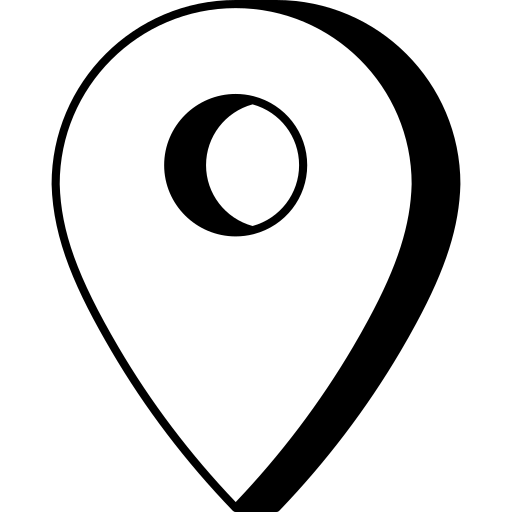
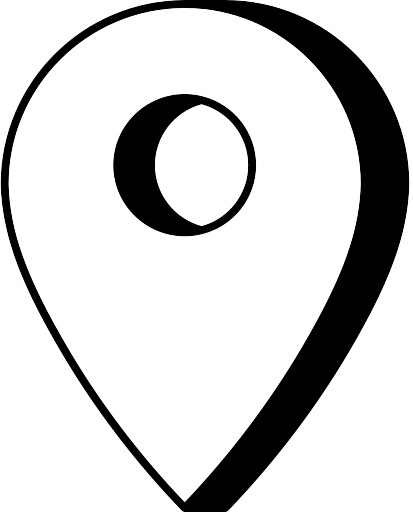
Feat: 마커에 마우스 올릴 시 소속대학 및 동아리명 뜨도록 구현

diff --git a/src/pages/orchestraClub/marker.js b/src/pages/orchestraClub/marker.js
@@ -1,47 +1,115 @@
+// // 마커 데이터 배열
+// const markers = [
+//     { top: 49, left: 38, url: "../orchestraClubPages/index.html" }, //서강대
+//     { top: 75, left: 37, url: "../orchestraClubPages/index.html" }, //서울대
+//     { top: 40, left: 60, url: "../orchestraClubPages/index.html" }, //경희대
+//     { top: 36, left: 48, url: "../orchestraClubPages/index.html" }, //성균관대
+//     { top: 46, left: 60, url: "../orchestraClubPages/index.html" }, //한양대
+// ];
+
+// // 지도 컨테이너 선택
+// const mapContainer = document.querySelector(".map");
+
+// function createMarker(top, left, url) {
+//     const marker = document.createElement("a");
+//     marker.className = "marker";
+//     marker.href = url;
+//     marker.title = "Orchestra Info";
+
+//     const markerImg = document.createElement("img");
+//     markerImg.src = "../../../public/images/map_marker.png";
+//     markerImg.alt = "Map Marker";
+
+//     // 이미지 크기 고정
+//     markerImg.style.width = "30px";
+//     markerImg.style.height = "30px";
+//     markerImg.style.objectFit = "contain"; // 이미지 왜곡 방지
+
+//     marker.appendChild(markerImg);
+
+//     marker.style.position = "absolute";
+//     marker.style.top = `${top}%`;
+//     marker.style.left = `${left}%`;
+
+//     marker.addEventListener("click", (event) => {
+//         event.preventDefault();
+//         console.log(`Navigating to: ${url}`);
+//         window.location.href = url;
+//     });
+
+//     return marker;
+// }
+
+
+// // 마커 추가
+// markers.forEach(markerData => {
+//     const marker = createMarker(markerData.top, markerData.left, markerData.url);
+//     mapContainer.appendChild(marker);
+// });
+
+
 // 마커 데이터 배열
 const markers = [
-    { top: 50, left: 30, url: "../orchestraClubPages/index.html" },
-    { top: 20, left: 45, url: "../orchestraClubPages/index.html" },
-    { top: 30, left: 60, url: "../orchestraClubPages/index.html" }
+    { top: 49, left: 38, university: "서강대학교", club: "ACES", url: "../orchestraClubPages/index.html" },
+    { top: 75, left: 37, university: "서울대학교", club: "SNUP", url: "../orchestraClubPages/index.html" },
+    { top: 40, left: 60, university: "경희대학교", club: "MDOP", url: "../orchestraClubPages/index.html" },
+    { top: 36, left: 48, university: "성균관대학교", club: "SKKUO", url: "../orchestraClubPages/index.html" },
+    { top: 46, left: 60, university: "한양대학교", club: "HANAKLANG", url: "../orchestraClubPages/index.html" },
 ];
 
 // 지도 컨테이너 선택
 const mapContainer = document.querySelector(".map");
 
-function createMarker(top, left, url) {
+function createMarker(top, left, university, club, url) {
     const marker = document.createElement("a");
     marker.className = "marker";
     marker.href = url;
-    marker.title = "Orchestra Info";
 
     const markerImg = document.createElement("img");
     markerImg.src = "../../../public/images/map_marker.png";
     markerImg.alt = "Map Marker";
-
-    // 이미지 크기 고정
     markerImg.style.width = "30px";
     markerImg.style.height = "30px";
-    markerImg.style.objectFit = "contain"; // 이미지 왜곡 방지
+    markerImg.style.objectFit = "contain";
+
+    // 툴팁 요소 생성
+    const tooltip = document.createElement("div");
+    tooltip.className = "marker-tooltip";
+    tooltip.textContent = `${university} ${club}`;
+
+    // 마커에 마우스 이벤트 추가
+    marker.addEventListener("mouseover", () => {
+        tooltip.style.display = "block";
+    });
+
+    marker.addEventListener("mouseout", () => {
+        tooltip.style.display = "none";
+    });
+
+    // 마커 클릭 이벤트
+    marker.addEventListener("click", (event) => {
+        event.preventDefault();
+        window.location.href = url;
+    });
 
     marker.appendChild(markerImg);
+    marker.appendChild(tooltip);
 
     marker.style.position = "absolute";
     marker.style.top = `${top}%`;
     marker.style.left = `${left}%`;
 
-    marker.addEventListener("click", (event) => {
-        event.preventDefault();
-        console.log(`Navigating to: ${url}`);
-        window.location.href = url;
-    });
-
     return marker;
 }
 
-
 // 마커 추가
 markers.forEach(markerData => {
-    const marker = createMarker(markerData.top, markerData.left, markerData.url);
+    const marker = createMarker(
+        markerData.top,
+        markerData.left,
+        markerData.university,
+        markerData.club,
+        markerData.url
+    );
     mapContainer.appendChild(marker);
 });
-

diff --git a/src/pages/orchestraClub/style.css b/src/pages/orchestraClub/style.css
@@ -141,12 +141,28 @@ body {
 }
 
 .marker img {
-    width: 30px; /* 고정된 너비 */
-    height: 30px; /* 고정된 높이 */
+    width: 40px; /* 고정된 너비 */
+    height: 50px; /* 고정된 높이 */
     object-fit: contain; /* 이미지 왜곡 방지 */
     cursor: pointer;
     pointer-events: auto;
 }
+
+/* 마커 툴팁 스타일 */
+.marker-tooltip {
+    position: absolute;
+    background-color: rgba(0, 0, 0, 0.7);
+    color: #fff;
+    padding: 5px 10px;
+    border-radius: 5px;
+    font-size: 12px;
+    white-space: nowrap;
+    z-index: 1000;
+    transform: translate(-50%, -100%);
+    display: none; /* 기본적으로 숨김 */
+    pointer-events: none; /* 마우스 이벤트 방지 */
+}
+
 
 
 
